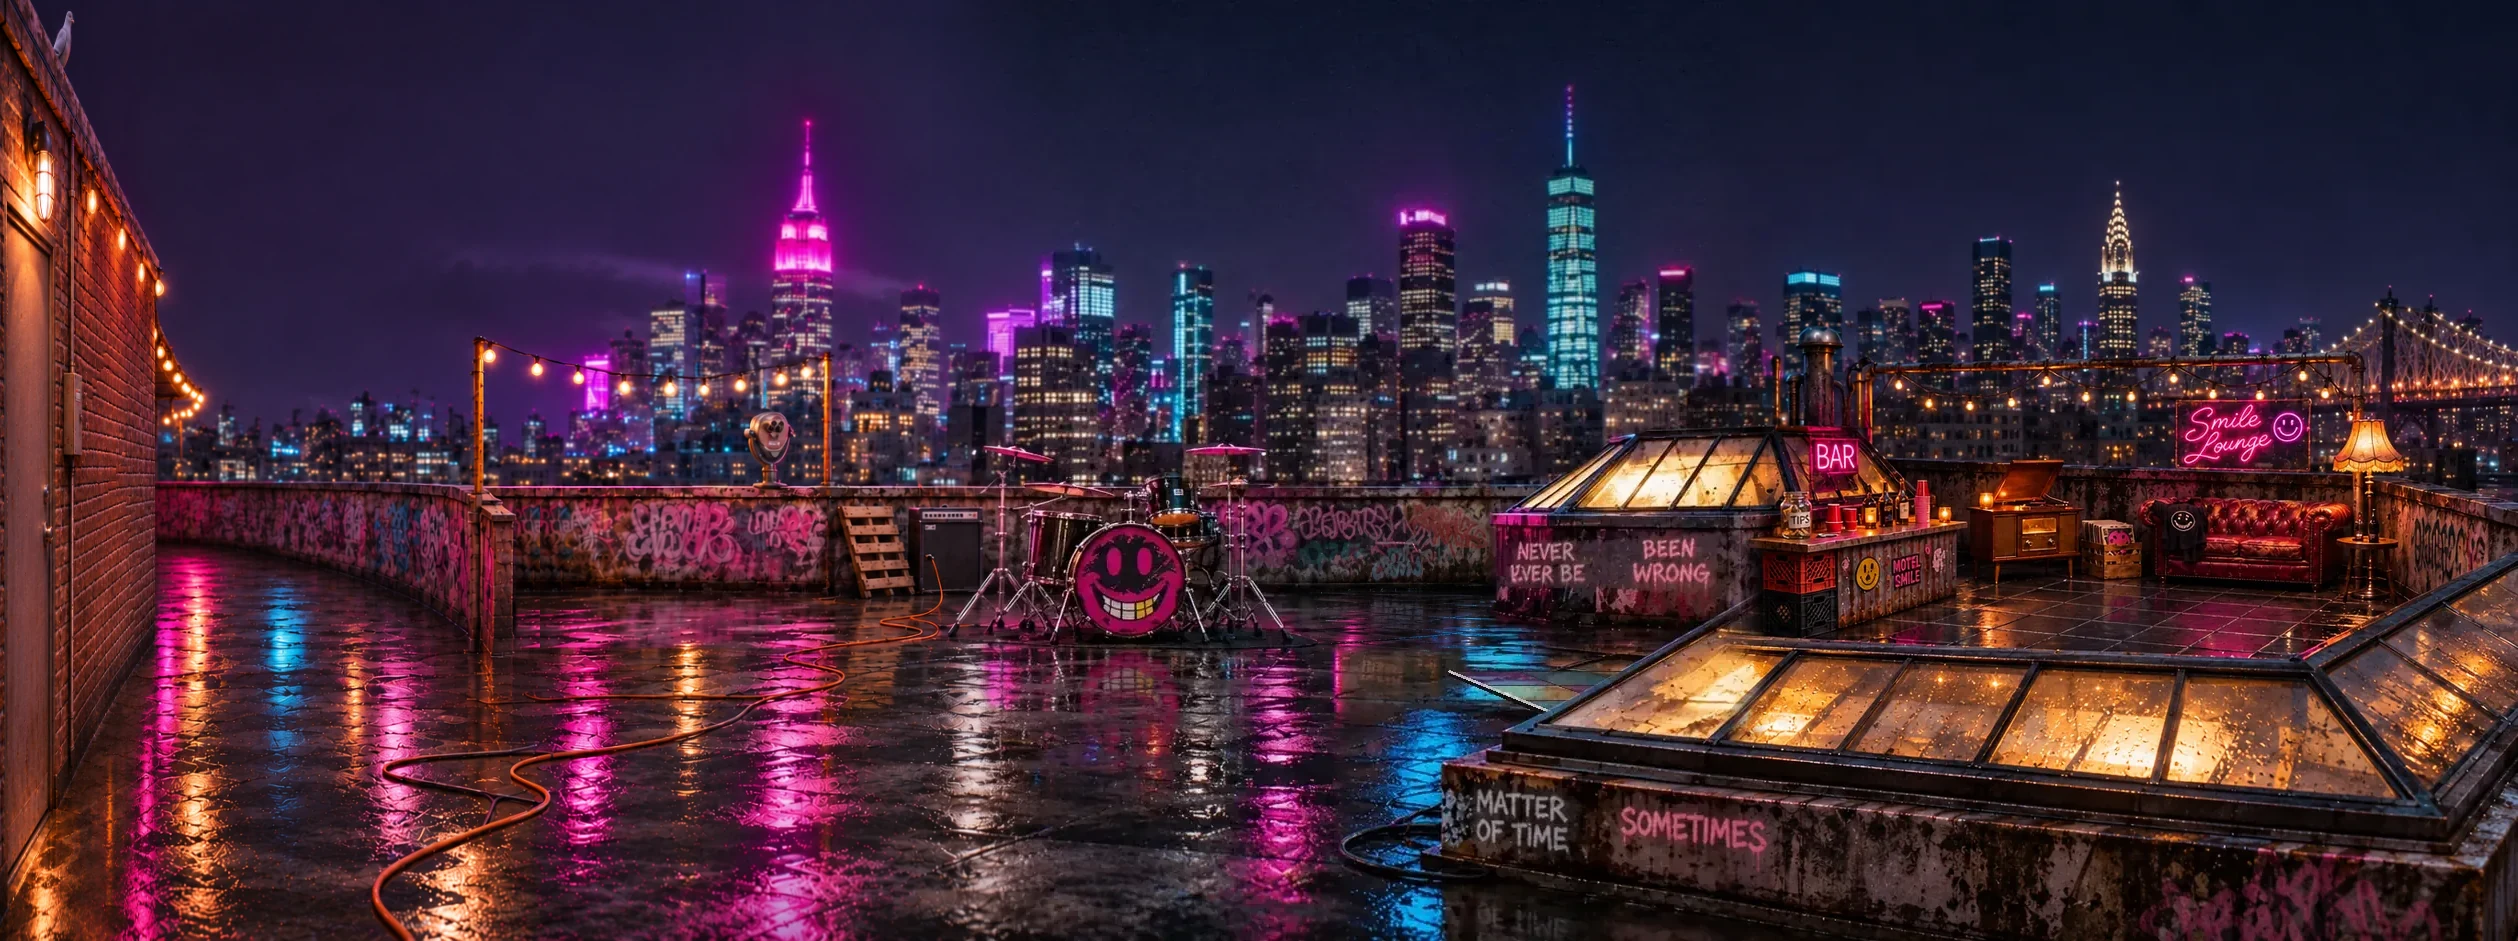
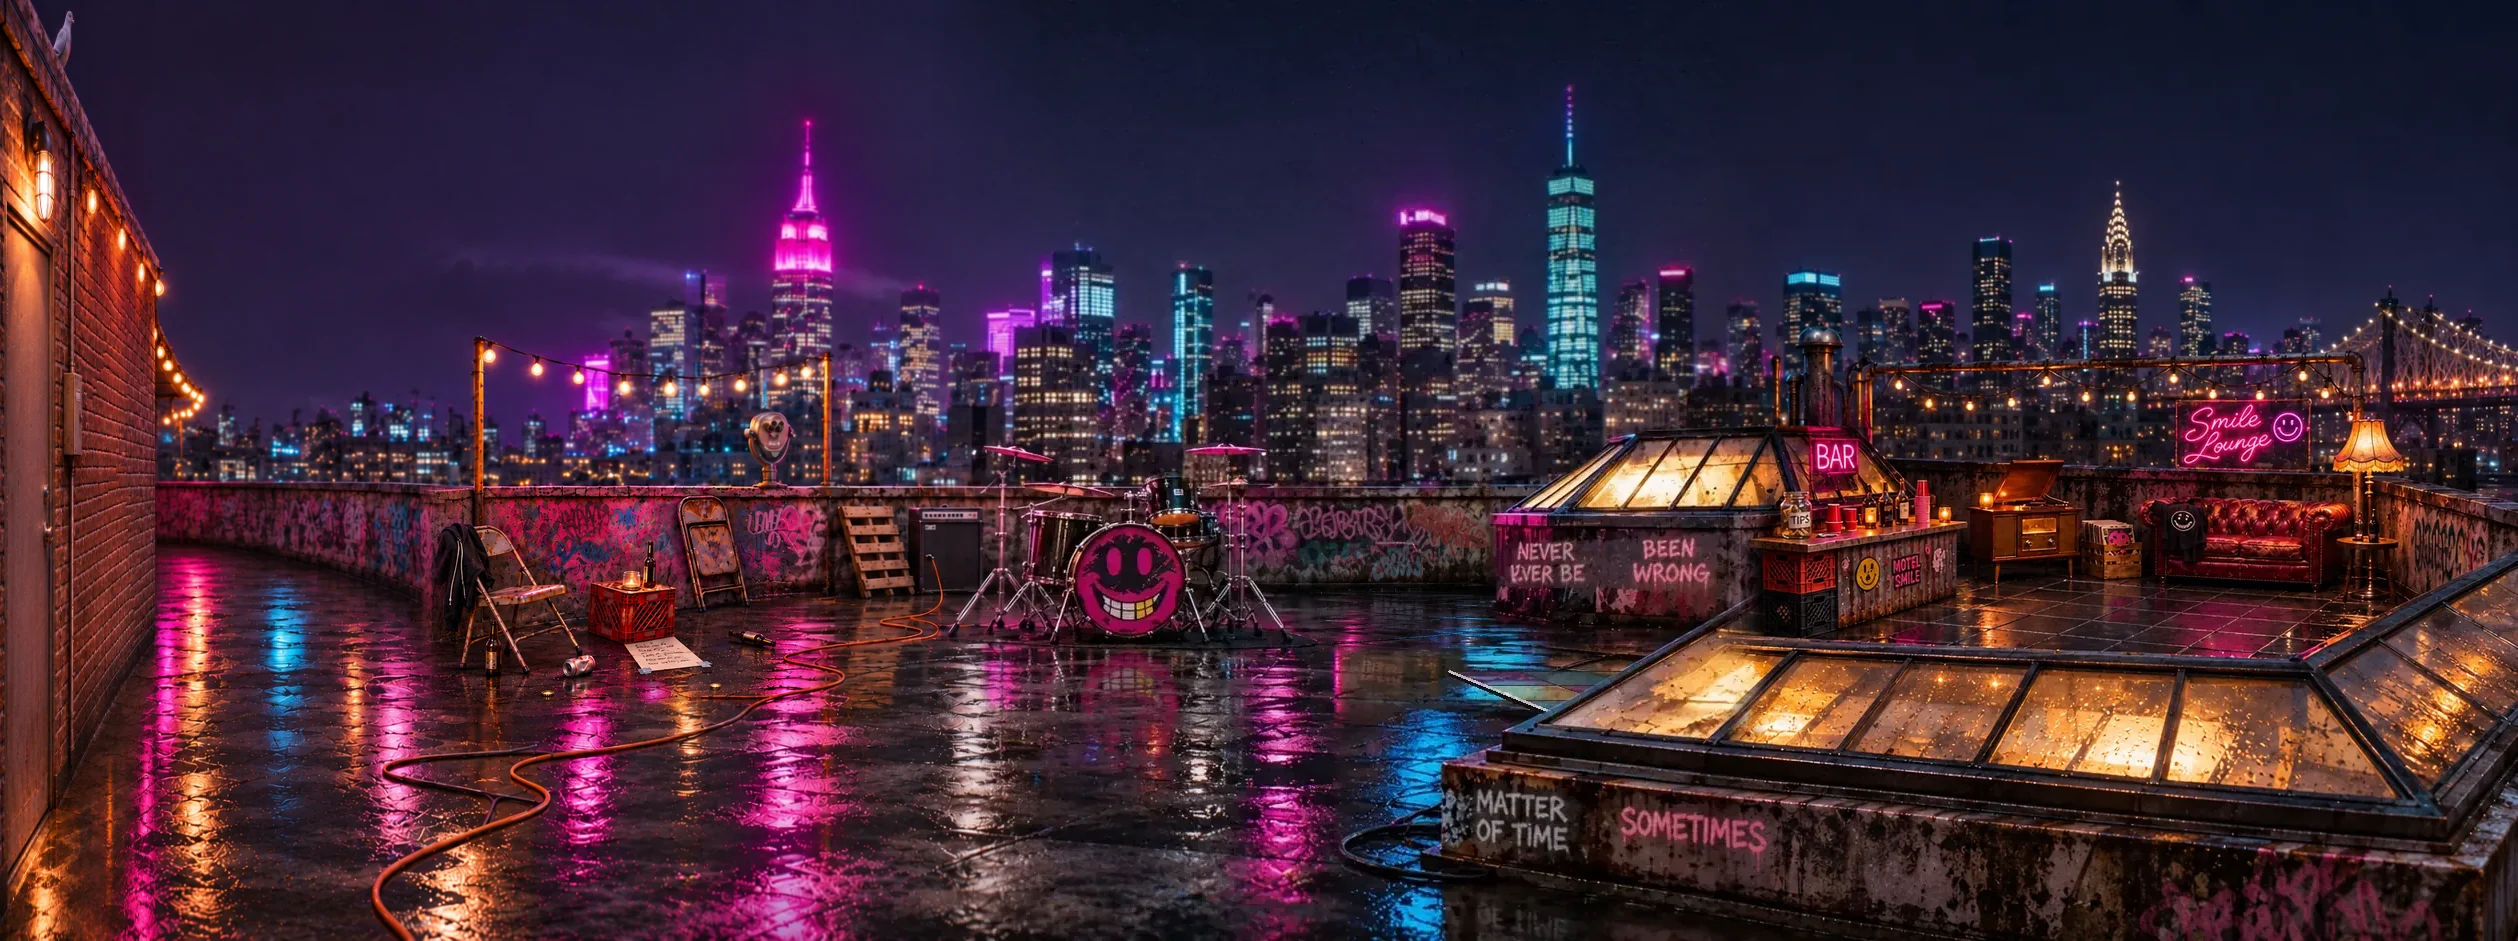
Band hangout corner: painted-in chairs/crate, setlist under the crate (curl hint, overhead reveal); girl jars hidden for walkway shelf
Claude-Session: https://claude.ai/code/session_011gssdMsenVXumrh9a32rRB

Changed region(s): [[0.1549, 0.4931, 0.3407, 0.7705]]

diff --git a/index.html b/index.html
@@ -267,6 +267,7 @@ window.MSFit=(w,h,W0,H0)=>{ const cov=Math.max(w/W0,h/H0), con=Math.min(w/W0,h/H
     <button class="pk" id="pk-cym1" style="left:872px;top:440px;width:90px;height:26px" aria-label="Cymbal"></button>
     <button class="pk" id="pk-cym2" style="left:1080px;top:436px;width:90px;height:26px" aria-label="Cymbal"></button>
     <button class="pk" id="pk-amp" style="left:805px;top:500px;width:72px;height:92px" aria-label="Amp"></button>
+    <div class="sl-curl" aria-hidden="true"></div><button class="pk" id="pk-crate" style="left:483px;top:578px;width:140px;height:100px" aria-label="Milk crate in the band hangout: look underneath"></button>
     <button class="pk" id="pk-reset" style="left:362px;top:398px;width:30px;height:44px" aria-label="Reset button: start the roof over"></button>
     <a class="show-sign" id="show-sign" href="#shows" data-open="shows" hidden aria-label="Next show"><small id="ss-a"></small><b id="ss-b"></b></a>
     <button class="binoc" id="binoc" aria-label="Coin-op binoculars on the ledge: go to the ledge"><span class="bn-tag">Look ↗</span></button>
@@ -355,7 +356,7 @@ window.MSFit=(w,h,W0,H0)=>{ const cov=Math.max(w/W0,h/H0), con=Math.min(w/W0,h/H
 .lounge{position:fixed;inset:0;z-index:40;overflow:hidden;background:#05060a;opacity:0;pointer-events:none}
 .lounge.on{opacity:1;pointer-events:auto}
 .lounge:not(.on),.lounge:not(.on) *{pointer-events:none!important}
-.lounge:not(.on):not(.moving){visibility:hidden;content-visibility:hidden}
+.lounge:not(.on):not(.moving){visibility:hidden;content-visibility:hidden} /* Megan, Gianna, Sophia jars move to the walkway shelf later */ #play .girl-jar{display:none!important}
 /* Megan, Gianna, Sophia jars hidden for now (only Grace + Jill) */
 
 .lounge:not(.on):not(.moving) *,.arcade:not(.on) *{animation-play-state:paused!important}
@@ -367,7 +368,7 @@ body.in-room #stage>:is(.top,#flyer,#play,#hunt,.sky,.bar) *{animation-play-stat
 body.in-room .lounge:not(.on) *,body.in-room .arcade:not(.on) *{animation-play-state:paused!important}
 .lounge:not(.on):not(.moving) .lg-fill{background:none}.lounge.moving .lg-fill{opacity:.25}.lg-fill{transition:opacity .4s;position:absolute;inset:-40px;background:url(img/smile-lounge.webp?v=b1) 40% 50%/cover;filter:blur(22px) brightness(.45)}
 .lg-cam,.lg-hero{position:absolute;left:0;top:0;width:1672px;height:941px;transform-origin:0 0;will-change:transform,opacity}
-.lg-cam{z-index:8}.lg-hero{z-index:2;width:2412px;background:url(img/roof-v2.webp?v=16) -106px 0/2518px 941px;pointer-events:none}
+.lg-cam{z-index:8}.lg-hero{z-index:2;width:2412px;background:url(img/roof-v2.webp?v=23) -106px 0/2518px 941px;pointer-events:none}
 .lg-cam img{position:absolute;display:block;user-select:none;-webkit-user-drag:none}
 .lg-bg{left:0;top:0;width:1672px;height:941px}
 .lg-front{left:341px;top:489px;width:886px;height:405px;pointer-events:none}
@@ -1469,7 +1470,7 @@ body.gg-on .lg-panel,body.gg-on .lg-tag,body.gg-on .lg-hint,body.gg-on .lg-swipe
 .arcade:not(.on){visibility:hidden;content-visibility:hidden}
 .ac-fill{position:absolute;inset:-40px;background:url(img/game-corner.webp?v=c1) 30% 50%/cover;filter:blur(22px) brightness(.45)}
 .ac-cam,.ac-hero{position:absolute;left:0;top:0;width:1672px;height:941px;transform-origin:0 0;will-change:transform,opacity}
-.ac-cam{z-index:8}.ac-hero{z-index:2;width:2412px;background:url(img/roof-v2.webp?v=16) -106px 0/2518px 941px;pointer-events:none;display:none}
+.ac-cam{z-index:8}.ac-hero{z-index:2;width:2412px;background:url(img/roof-v2.webp?v=23) -106px 0/2518px 941px;pointer-events:none;display:none}
 .ac-cam>img{position:absolute;left:0;top:0;width:1672px;height:941px;user-select:none;-webkit-user-drag:none}
 #pb{position:fixed;inset:0;z-index:95;background:#05060a;display:none;touch-action:none;user-select:none;-webkit-user-select:none}
 #pb.on{display:block}
@@ -2506,7 +2507,7 @@ body.gg-on .lg-panel,body.gg-on .lg-tag,body.gg-on .lg-hint,body.gg-on .lg-swipe
   function render(c){
     seo(c);
     const hints=c.site&&c.site.showSetupHints;
-    $("stage").style.backgroundImage=`url("${"img/roof-v2.webp?v=16"}")`; /* wide roof with the lounge (2412x941); content.json hero is the old 1672 plate */
+    $("stage").style.backgroundImage=`url("${"img/roof-v2.webp?v=23"}")`; /* wide roof with the lounge (2412x941); content.json hero is the old 1672 plate */
     const m=c.music,f=m.featured;
     const sub=[f.status,f.length].filter(Boolean).join(" · ");
     $("t-listen").textContent=f.title+" ▸"; $("t-listen-sub").textContent=sub;
@@ -4517,6 +4518,53 @@ body.ph .sign{font-size:clamp(32px,10vw,46px)!important;margin-top:2px!important
 (()=>{ const go=(id,f)=>{ const b=document.getElementById(id); b&&b.addEventListener("click",e=>{ e.stopPropagation(); window.MSBxSfx&&window.MSBxSfx("tick"); f(); }); };
   const pill=i=>()=>{ const p=document.querySelectorAll(".sky .pills .pill")[i]; p&&p.click(); };
   const pq=q=>()=>{ const p=document.querySelector(q); p&&p.click(); }; go("ns-listen",pq(".pill[data-lounge]")); go("ns-games",pq(".pill[data-arcade]")); go("ns-live",pq(".tile[data-open=shows]")); go("nsp-listen",pq(".pill[data-lounge]")); go("nsp-games",pq(".pill[data-arcade]")); go("nsp-live",pq(".tile[data-open=shows]")); })();
+</script>
+
+<style>
+#sl{position:fixed;inset:0;z-index:90;background:#07050b;opacity:0;pointer-events:none;transition:opacity .35s;overflow:hidden}
+#sl.open{opacity:1;pointer-events:auto}
+#sl .sl-wrap{position:absolute;left:50%;top:50%;width:max(100vw,calc(100vh*1672/941));aspect-ratio:1672/941;transform:translate(-50%,-50%) scale(.42);transform-origin:var(--ox,50%) var(--oy,50%);transition:transform .75s cubic-bezier(.2,.7,.2,1),filter .75s;filter:blur(6px)}
+#sl.open .sl-wrap{transform:translate(-50%,-50%) scale(1);filter:none}
+@media (orientation:portrait){#sl .sl-wrap{width:250vw;left:calc(50% + (0.5 - .493)*250vw)}}
+#sl .sl-f{position:absolute;inset:0;width:100%;height:100%;display:block;user-select:none;-webkit-user-drag:none;pointer-events:none;opacity:0;transition:opacity .35s}
+#sl .sl-f.f2,#sl .sl-f.f3{opacity:0!important}
+#sl .f1{opacity:1}
+#sl.s2 .sl-f.f2,#sl.s3 .sl-f.f3,#sl.s3 .sl-f.f2{opacity:1!important}
+#play .sl-curl{position:absolute;left:486px;top:612px;width:136px;height:66px;background:url(img/hang/curl.webp?v=1) 0 0/100% 100%;pointer-events:none;opacity:0;animation:slCurl 7s ease-in-out infinite}
+@keyframes slCurl{0%,55%,100%{opacity:0}65%,85%{opacity:1}}
+#sl .sl-shade{position:absolute;inset:0;background:radial-gradient(ellipse 70% 70% at 49% 50%,transparent 45%,rgba(4,2,8,.75));pointer-events:none}
+#sl .sl-x{position:absolute;left:16px;top:calc(14px + env(safe-area-inset-top,0px));z-index:2;padding:9px 16px;border-radius:999px;border:2px solid var(--cyan,#46dcff);background:rgba(10,6,16,.7);color:#fff;font:600 14px var(--sans,system-ui);cursor:pointer;box-shadow:0 0 14px rgba(70,220,255,.45)}
+#sl .sl-hint{position:absolute;left:50%;bottom:calc(22px + env(safe-area-inset-bottom,0px));transform:translateX(-50%);z-index:2;color:#fff;font:500 13px var(--mono,monospace);letter-spacing:.08em;opacity:0;transition:opacity .5s 1.2s;text-shadow:0 1px 6px #000;white-space:nowrap}
+#sl.s3 .sl-hint{opacity:.85}
+#pk-crate{border-radius:10px}
+@media (prefers-reduced-motion:reduce){#sl .sl-wrap,#sl .sl-f{transition:none}#play .sl-curl{animation:none}}
+</style>
+<div id="sl" aria-hidden="true" role="dialog" aria-label="The setlist under the crate">
+  <div class="sl-wrap"><img class="sl-f f1" alt="" data-src="img/hang/sl1.webp?v=1" width="1672" height="941"><img class="sl-f f2" alt="" data-src="img/hang/sl2.webp?v=1" width="1672" height="941"><img class="sl-f f3 sl-bg" alt="Tonight's setlist, gaffer-taped to the roof: Get Back, Matter of Time, Dirty Little Liar, Don't Mind It, Better Free, Fences, Down, Thread, Mean, Gnocchi" data-src="img/hang/sl3.webp?v=1" width="1672" height="941"></div>
+  <div class="sl-shade"></div>
+  <button class="sl-x" type="button">✕ Back to the roof</button>
+  <div class="sl-hint">Tonight’s setlist</div>
+</div>
+<script>
+/* Band hangout: tap the milk crate, push in, the crate lifts off the taped setlist */
+(()=>{ const $=id=>document.getElementById(id), sl=$("sl"), hot=$("pk-crate"); if(!sl||!hot) return;
+  const wrap=sl.querySelector(".sl-wrap"); let t1=0, loaded=false;
+  const load=()=>{ if(loaded) return; loaded=true; sl.querySelectorAll("img[data-src]").forEach(i=>i.src=i.dataset.src); };
+  hot.addEventListener("pointerenter",load,{once:true});
+  function open(e){ e&&e.preventDefault(); e&&e.stopPropagation(); load();
+    const r=hot.getBoundingClientRect(); wrap.style.setProperty("--ox",(r.left+r.width/2)/innerWidth*100+"%"); wrap.style.setProperty("--oy",(r.top+r.height/2)/innerHeight*100+"%");
+    sl.classList.remove("s2","s3"); sl.setAttribute("aria-hidden","false"); document.body.classList.add("jx-on");
+    let went=false; const go=()=>{ if(went) return; went=true; requestAnimationFrame(()=>{ sl.classList.add("open"); clearTimeout(t1); t1=setTimeout(()=>{ sl.classList.add("s2"); t1=setTimeout(()=>sl.classList.add("s3"),700); },1200); }); };
+    const im=sl.querySelector(".f1"); if(im.complete&&im.naturalWidth) go(); else { im.onload=go; setTimeout(go,1500); }
+    try{ window.MSAudio&&window.MSAudio.thunk&&window.MSAudio.thunk(); }catch(_){}
+    sl.querySelector(".sl-x").focus({preventScroll:true}); }
+  function close(e){ e&&e.preventDefault(); e&&e.stopPropagation(); clearTimeout(t1); sl.classList.remove("open"); sl.setAttribute("aria-hidden","true"); document.body.classList.remove("jx-on"); setTimeout(()=>sl.classList.remove("s2","s3"),400); hot.focus({preventScroll:true}); }
+  hot.addEventListener("click",open);
+  sl.querySelector(".sl-x").addEventListener("click",close);
+  sl.addEventListener("click",e=>{ if(e.target===sl||e.target.classList.contains("sl-shade")) close(e); });
+  addEventListener("keydown",e=>{ if(e.key==="Escape"&&sl.classList.contains("open")) close(e); });
+  window.MSSetlist=open;
+})();
 </script>
 
 </body>
